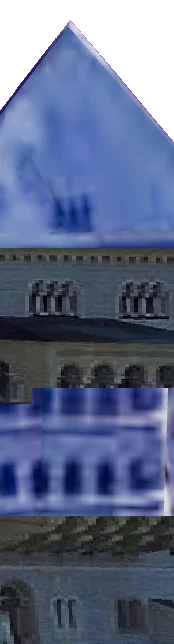
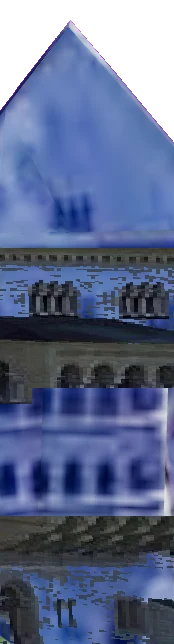
castle Neuschwanstein: đường đi + cầu thang OSM, chiếu ảnh chỉ lên chủ thể, ảnh so gần hơn
- scripts/tai-duong.mjs + public/duong.js (dùng chung): 93 đường OSM trong 450 m (đường ô tô, lối đi bộ, đường mòn, 13 cầu thang) → mặt đường bám đất thật + va chạm, cầu thang thành 357 bậc đá có va chạm hộp; bỏ đường là cầu / hầm
- chieuanh.js: mỗi ảnh chỉ chiếu trong 60 m sau mặt gần nhất ảnh thấy (chủ thể) — tia xuyên qua Palas rơi xuống cổng Torbau phía sau tô ảnh thung lũng / đường; bỏ điểm ảnh trời / cây
- dan-mat.py: ghép ảnh chụp vào ảnh dán không chép điểm trời / cây
- tai-anh-doi-chieu.mjs: THÊM VÀO danh sách ảnh (trước ghi đè, xoá camera đã khớp), ảnh 2400 px; thêm 7 ảnh Commons chụp gần (chưa khớp camera: toạ độ chụp trên Commons sai — sẽ dùng Mapillary)
- khop-camera.mjs: dò thô cho ảnh chưa có camera (hướng × ngẩng × ống kính, biên rộng)
- Thử: cửa sổ trèo vào, cầu thang tầng 3, điện thoại đạt

diff --git a/apps/castle/public/chieuanh.js b/apps/castle/public/chieuanh.js
@@ -4,7 +4,7 @@
 //   2. mỗi lưới nhận ảnh có một BẢN PHỦ dùng ShaderMaterial: điểm chiếu vào khung ảnh, không bị che (so độ sâu), mặt quay về phía camera → lấy màu ảnh, còn lại bỏ.
 // taoChieuAnh({ THREE, renderer, anh: { url, w, h }, cam: { pos: Vector3, quat: Quaternion, fov }, che: [Object3D], nhan: [Mesh] }) → Promise<[Mesh phủ]>
 // tra-repo-ok: kỹ thuật chiếu ảnh chuẩn (three.js không có sẵn bản có che khuất cho lưới tuỳ ý); mã nhỏ, riêng cảnh.
-export async function taoChieuAnh({ THREE, renderer, anh, cam, che, nhan, kichThuocSau = 2048 }) {
+export async function taoChieuAnh({ THREE, renderer, anh, cam, che, nhan, kichThuocSau = 2048, thu = 0, chuThe = 60 }) { // chuThe: chỉ chiếu tới mặt cách mặt gần nhất ≤ chuThe m // thu: thứ tự lớp (ảnh sau đè ảnh trước)
   const tx = await new THREE.TextureLoader().loadAsync(anh.url); tx.colorSpace = THREE.SRGBColorSpace;
   const pc = new THREE.PerspectiveCamera(cam.fov, anh.w / anh.h, 1, 3000); pc.position.copy(cam.pos); pc.quaternion.copy(cam.quat); pc.updateMatrixWorld(true); pc.updateProjectionMatrix();
   // độ sâu từ camera chụp (chỉ các lưới che)
@@ -13,23 +13,33 @@ export async function taoChieuAnh({ THREE, renderer, anh, cam, che, nhan, kichTh
   const truoc = renderer.getRenderTarget(); renderer.setRenderTarget(sau); renderer.clear(); renderer.render(canh, pc); renderer.setRenderTarget(truoc);
   for (const [o, p] of cu) p ? p.add(o) : canh.remove(o);
   const vp = new THREE.Matrix4().multiplyMatrices(pc.projectionMatrix, pc.matrixWorldInverse);
+  // CHỦ THỂ của ảnh: khoảng cách tới mặt gần nhất ảnh thấy (đỉnh lưới che trong khung ảnh) → chỉ chiếu trong ±sau m quanh đó;
+  // xa hơn là cảnh nền trong ảnh (thung lũng, nhà khác) — tia chiếu xuyên qua chủ thể rơi xuống toà phía sau sẽ tô sai (anh 16/11/2026: cổng Torbau mang ảnh cây + đường)
+  let gan = 1e9; const v4 = new THREE.Vector4();
+  for (const o of che) { o.updateMatrixWorld(true); const p = o.geometry?.attributes?.position; if (!p) continue; for (let i = 0; i < p.count; i += 7) {
+    v4.set(p.getX(i), p.getY(i), p.getZ(i), 1).applyMatrix4(o.matrixWorld); const w = v4.clone().applyMatrix4(vp); if (w.w <= 0 || Math.abs(w.x / w.w) > 1 || Math.abs(w.y / w.w) > 1) continue;
+    gan = Math.min(gan, Math.hypot(v4.x - pc.position.x, v4.y - pc.position.y, v4.z - pc.position.z)); } }
   const vl = new THREE.ShaderMaterial({
-    uniforms: { kiem: { value: 0 }, anh: { value: tx }, sau: { value: sau.depthTexture }, vp: { value: vp }, viTri: { value: pc.position }, gan: { value: pc.near }, xa: { value: pc.far } },
+    uniforms: { kiem: { value: 0 }, xaToiDa: { value: gan + chuThe }, anh: { value: tx }, sau: { value: sau.depthTexture }, vp: { value: vp }, viTri: { value: pc.position }, gan: { value: pc.near }, xa: { value: pc.far } },
     vertexShader: `varying vec4 vChieu; varying vec3 vPhap; varying vec3 vTg; uniform mat4 vp;
       void main() { vec4 w = modelMatrix * vec4(position, 1.0); vTg = w.xyz; vChieu = vp * w; vPhap = normalize(mat3(modelMatrix) * normal); gl_Position = projectionMatrix * viewMatrix * w; }`,
     fragmentShader: `#include <packing>
-      varying vec4 vChieu; varying vec3 vPhap; varying vec3 vTg; uniform int kiem; uniform sampler2D anh; uniform sampler2D sau; uniform vec3 viTri; uniform float gan; uniform float xa;
+      varying vec4 vChieu; varying vec3 vPhap; varying vec3 vTg; uniform int kiem; uniform float xaToiDa; uniform sampler2D anh; uniform sampler2D sau; uniform vec3 viTri; uniform float gan; uniform float xa;
       void main() {
         vec3 n = vChieu.xyz / vChieu.w; vec2 uv = n.xy * 0.5 + 0.5; if (vChieu.w <= 0.0 || uv.x < 0.0 || uv.x > 1.0 || uv.y < 0.0 || uv.y > 1.0) discard; if (kiem == 1) { gl_FragColor = vec4(1.0, 0.0, 0.0, 1.0); return; }
-        vec3 toi = normalize(viTri - vTg); float hg = dot(normalize(gl_FrontFacing ? vPhap : -vPhap), toi); if (hg < 0.4) discard; // chỉ mặt QUAY VỀ chỗ chụp, lệch ≤ ~66°: mặt xiên / quay lưng thì ảnh bị kéo thành sọc (anh 16/11/2026), bỏ
+        if (distance(viTri, vTg) > xaToiDa) discard; vec3 toi = normalize(viTri - vTg); float hg = dot(normalize(gl_FrontFacing ? vPhap : -vPhap), toi); if (hg < 0.4) discard; // chỉ mặt QUAY VỀ chỗ chụp, lệch ≤ ~66°: mặt xiên / quay lưng thì ảnh bị kéo thành sọc (anh 16/11/2026), bỏ
         if (kiem == 2) { gl_FragColor = vec4(0.0, 1.0, 0.0, 1.0); return; }
         float d = texture2D(sau, uv).x, zSau = perspectiveDepthToViewZ(d, gan, xa), zMinh = perspectiveDepthToViewZ(n.z * 0.5 + 0.5, gan, xa);
         if (zMinh < zSau - 0.6) discard; // bị vật khác che (sâu hơn 0,6 m so với mặt gần nhất camera chụp thấy)
-        gl_FragColor = texture2D(anh, uv);
+        vec4 c = texture2D(anh, uv);
+        // điểm ảnh là TRỜI (xanh dương / mây sáng nhạt) hoặc CÂY (xanh lá trội): trong ảnh thật chỗ đó không phải tường / mái (bị rừng che, hoặc khối mô hình lấn ra ngoài viền thật) → không chiếu
+        if (c.b > c.r + 0.08 && c.b > 0.35) discard;
+        if (c.g > c.r + 0.04 && c.g > c.b + 0.02) discard;
+        gl_FragColor = c;
         #include <colorspace_fragment>
       }`,
-    polygonOffset: true, polygonOffsetFactor: -2, polygonOffsetUnits: -2, side: THREE.DoubleSide,
+    polygonOffset: true, polygonOffsetFactor: -2 - thu, polygonOffsetUnits: -2 - thu, side: THREE.DoubleSide,
   });
   taoChieuAnh.vl = vl; // gỡ lỗi: vl.uniforms.kiem = 1 (đỏ = trong khung), 2 (xanh = qua lọc hướng)
-  return nhan.map((m) => { const p = new THREE.Mesh(m.geometry, vl); p.matrixAutoUpdate = false; m.updateMatrixWorld(true); p.matrix.copy(m.matrixWorld); p.matrixWorld.copy(m.matrixWorld); p.renderOrder = 2; return p; });
+  return nhan.map((m) => { const p = new THREE.Mesh(m.geometry, vl); p.matrixAutoUpdate = false; m.updateMatrixWorld(true); p.matrix.copy(m.matrixWorld); p.matrixWorld.copy(m.matrixWorld); p.renderOrder = 2 + thu; return p; });
 }

diff --git a/apps/castle/public/ns.js b/apps/castle/public/ns.js
@@ -16,6 +16,7 @@ import { MeshoptDecoder } from 'three/addons/libs/meshopt_decoder.module.js';
 import { ganGopY, chupCanvas } from './gopy.js';
 import { taoCamUng, CHAM } from './camung.js';
 import { taoChieuAnh } from './chieuanh.js';
+import { datDuong } from './duong.js';
 import { datMatTien, datMatPalas, datThapGoc, bocCuc, O_MO, quyDoiMat, tiLeDung, datChop, oCum } from './mattien.js';
 import { taoNhieuNguoi } from './nhieunguoi.js';
 
@@ -33,6 +34,7 @@ const NEN = await fetch(`./du-lieu/${ten}-nen.json`, { cache: 'no-cache' }).then
 const CHOP = await fetch(`./du-lieu/${ten}-chop.json`, { cache: 'no-cache' }).then((r) => (r.ok ? r.json() : null)).catch(() => null); // chóp / tháp nhỏ OSM không có (scripts/them-chop.mjs)
 const CUA_SO = await fetch(`./du-lieu/${ten}-cua-so.json`, { cache: 'no-cache' }).then((r) => (r.ok ? r.json() : {})).catch(() => ({})); // cửa sổ đo từ ảnh từng mặt (scripts/nan-google.mjs + do-cua-so.py)
 const MAT_ANH = await fetch(`./du-lieu/${ten}-mat-anh.json`, { cache: 'no-cache' }).then((r) => (r.ok ? r.json() : {})).catch(() => ({})); // ảnh dán mặt tường (scripts/nan-google.mjs PX=16 + dan-mat.py)
+const DUONG = await fetch(`./du-lieu/${ten}-duong.json`, { cache: 'no-cache' }).then((r) => (r.ok ? r.json() : null)).catch(() => null); // đường + cầu thang OSM (scripts/tai-duong.mjs)
 const NT = await fetch(`./du-lieu/${ten}-noi-that.json`, { cache: 'no-cache' }).then((r) => (r.ok ? r.json() : null)).catch(() => null); // nội thất (có thì dựng)
 for (const k of D.khoi) if (SUA[k.id]) { k.tagsGoc = { ...k.tags }; for (const [a, b] of Object.entries(SUA[k.id])) if (a !== 'ly_do') k.tags[a] = String(b); }
 
@@ -441,6 +443,18 @@ if (NEN_LUOI) {
   }
 }
 
+// ---- ĐƯỜNG ĐI + CẦU THANG OSM (duong.js): mặt đường bám đất thật, bậc đá có va chạm
+if (DUONG?.duong?.length) {
+  const tx = (t, lap) => { for (const x of [t.map, t.bump]) if (x) { x.wrapS = x.wrapT = THREE.RepeatWrapping; } return t; };
+  const nhua = tx(T.daXay(T.rngTu(61), 34, 50)), dat = tx(T.cuoi(T.rngTu(62))), bac = tx(T.daXay(T.rngTu(63), 30, 60));
+  const { ra, dem } = datDuong({ THREE, mergeGeometries, RAPIER, world, tinh, ds: DUONG.duong, cao: datThat,
+    vl: { nhua: new THREE.MeshStandardMaterial({ map: nhua.map, bumpMap: nhua.bump, bumpScale: 0.8, roughness: 0.92, color: '#b9b3a8' }),
+      dat: new THREE.MeshStandardMaterial({ map: dat.map || null, roughness: 0.95, color: '#9c8c72' }),
+      bac: new THREE.MeshStandardMaterial({ map: bac.map, bumpMap: bac.bump, bumpScale: 1, roughness: 0.9, color: '#d6d0c4' }) } });
+  for (const m of ra) { scene.add(m); LOP_OSM.push(m); }
+  console.info('[ns] đường đi:', JSON.stringify({ ...dem, m: Math.round(dem.m) }));
+}
+
 // ---- NỘI THẤT Palas (noithat.js): sàn, phòng theo bản vẽ, cầu thang xoắn, đồ đạc, đèn chùm
 let noiThat = null;
 if (NOI) {
@@ -608,15 +622,18 @@ const raMet = (la, ln) => [(ln - D.tam[1]) * M_LNG, -(la - D.tam[0]) * M_LAT];
 // ẢNH CHỤP CHIẾU LÊN MÁI + THÁP (chieuanh.js): ảnh so khớp camera tốt nhất (ghi chú khớp tự động, lệch viền ≤ 10 px) → cửa mái, ống khói, chóp, hoa văn trên mái
 // hiện đúng chỗ như ảnh. Chỉ tô chỗ ảnh nhìn thấy; tải nền sau khi cảnh dựng xong
 (async () => {
-  const tot = ANH.map((a, i) => ({ a, i, lech: +(/lệch viền ([\d.]+) px/.exec(a.camera?.ghi_chu || '')?.[1] ?? 999) })).filter((x) => x.a.camera && x.lech <= 10).sort((p, q) => p.lech - q.lech)[0];
-  if (!tot) return;
-  const nha = LOP_OSM.filter((m) => m.isMesh && m.userData.nha); if (!nha.length) return;
-  const [x, z] = raMet(tot.a.lat, tot.a.lng), c = tot.a.camera, quat = new THREE.Quaternion().setFromEuler(new THREE.Euler(c.pitch, c.yaw, 0, 'YXZ'));
-  try {
-    const phu = await taoChieuAnh({ THREE, renderer, anh: { url: `./du-lieu/${tot.a.tep}`, w: tot.a.rong, h: tot.a.cao }, cam: { pos: new THREE.Vector3(x, c.y, z), quat, fov: c.fov }, che: nha, nhan: nha });
-    for (const p of phu) { p.visible = !LOP_OSM.dangAn; scene.add(p); LOP_OSM.push(p); }
-    console.info('[ns] chiếu ảnh', tot.a.tieuDe, 'lên', phu.length, 'lưới nhà');
-  } catch (e) { console.warn('[ns] chiếu ảnh lỗi', e); }
+  // mọi ảnh khớp camera tốt (lệch viền ≤ 10 px) đều chiếu; ảnh chụp GẦN hơn vẽ sau (đè) ở chỗ cùng thấy — nét hơn
+  const ds = ANH.map((a, i) => ({ a, i, lech: +(/lệch viền ([\d.]+) px/.exec(a.camera?.ghi_chu || '')?.[1] ?? 999) })).filter((x) => x.a.camera && x.lech <= 10)
+    .map((x) => { const [px, pz] = raMet(x.a.lat, x.a.lng); return { ...x, px, pz, xa: Math.hypot(px + 30, pz - 15) }; }).sort((p, q) => q.xa - p.xa);
+  const nha = LOP_OSM.filter((m) => m.isMesh && m.userData.nha); if (!ds.length || !nha.length) return;
+  for (const [k, x] of ds.entries()) {
+    const c = x.a.camera, quat = new THREE.Quaternion().setFromEuler(new THREE.Euler(c.pitch, c.yaw, 0, 'YXZ'));
+    try {
+      const phu = await taoChieuAnh({ THREE, renderer, anh: { url: `./du-lieu/${x.a.tep}`, w: x.a.rong, h: x.a.cao }, cam: { pos: new THREE.Vector3(x.px, c.y, x.pz), quat, fov: c.fov }, che: nha, nhan: nha, thu: k });
+      for (const p of phu) { p.visible = !LOP_OSM.dangAn; scene.add(p); LOP_OSM.push(p); }
+      console.info('[ns] chiếu ảnh', x.a.tieuDe, `(cách ${x.xa.toFixed(0)} m, lệch ${x.lech} px) lên`, phu.length, 'lưới nhà');
+    } catch (e) { console.warn('[ns] chiếu ảnh lỗi', x.a.tieuDe, e); }
+  }
 })();
 let dangSo = null, cam = null;
 const hop = $('so-khung'), img = $('so-anh');

diff --git a/apps/castle/public/duong.js b/apps/castle/public/duong.js
@@ -1,0 +1,51 @@
+// ĐƯỜNG ĐI + CẦU THANG từ OSM (du-lieu/<lâu>-duong.json, scripts/tai-duong.mjs) — dùng chung mọi lâu đài:
+//   đường (đường ô tô, lối đi bộ, đường mòn): dải rộng theo loại, bám mặt đất thật cao(x, z), nhô 6 cm; mép có bó vỉa với đường lát;
+//   cầu thang (highway=steps): bậc đá 0,16–0,2 m chia đều giữa độ cao hai đầu, mỗi bậc một khối có va chạm hộp, hai bên thành đá thấp.
+// Bỏ đường là cầu (bridge, đã dựng riêng) và hầm. Va chạm đường: trimesh dải (người đi trên mặt đường thay vì lưới đất thô).
+// datDuong({ THREE, mergeGeometries, RAPIER, world, tinh, ds, cao, vl: { nhua, da, bac } }) → { ra: [Mesh], dem }
+// tra-repo-ok: dựng dải theo polyline + bậc thang (mã nhỏ riêng cảnh).
+export function datDuong({ THREE, mergeGeometries, RAPIER, world, tinh, ds, cao, vl }) {
+  const LAT = new Set(['footway', 'pedestrian', 'steps', 'service', 'residential', 'unclassified']); // đường lát / nhựa; còn lại (track, path) là đất
+  const nhom = { nhua: [], dat: [], bac: [] }, dem = { duong: 0, bac: 0, m: 0 };
+  const dai = (v, w, y = (x, z) => cao(x, z) + 0.06) => { // dải theo polyline, chia đoạn ≤ 2 m để bám đất
+    const p = []; const pts = [];
+    for (let i = 0; i + 1 < v.length; i++) { const [x1, z1] = v[i], [x2, z2] = v[i + 1], L = Math.hypot(x2 - x1, z2 - z1), n = Math.max(1, Math.ceil(L / 2)); for (let k = 0; k < n; k++) pts.push([x1 + (x2 - x1) * k / n, z1 + (z2 - z1) * k / n]); }
+    pts.push(v[v.length - 1]);
+    const ben = pts.map((q, i) => { const a = pts[Math.max(0, i - 1)], b = pts[Math.min(pts.length - 1, i + 1)], dx = b[0] - a[0], dz = b[1] - a[1], l = Math.hypot(dx, dz) || 1; return [-dz / l * w / 2, dx / l * w / 2]; });
+    let s = 0, uv = [];
+    for (let i = 0; i + 1 < pts.length; i++) {
+      const [x1, z1] = pts[i], [x2, z2] = pts[i + 1], [a1, b1] = ben[i], [a2, b2] = ben[i + 1], d = Math.hypot(x2 - x1, z2 - z1);
+      const A = [x1 + a1, y(x1 + a1, z1 + b1), z1 + b1], B = [x1 - a1, y(x1 - a1, z1 - b1), z1 - b1], C = [x2 + a2, y(x2 + a2, z2 + b2), z2 + b2], E = [x2 - a2, y(x2 - a2, z2 - b2), z2 - b2];
+      p.push(...A, ...B, ...C, ...B, ...E, ...C); uv.push(0, s / 3, w / 3, s / 3, 0, (s + d) / 3, w / 3, s / 3, w / 3, (s + d) / 3, 0, (s + d) / 3); s += d;
+    }
+    dem.m += s;
+    const g = new THREE.BufferGeometry(); g.setAttribute('position', new THREE.Float32BufferAttribute(p, 3)); g.setAttribute('uv', new THREE.Float32BufferAttribute(uv, 2)); g.computeVertexNormals(); return g;
+  };
+  const va = [];
+  for (const d of ds) {
+    if (d.cau || d.ham || d.v.length < 2) continue;
+    if (d.loai === 'steps') { // CẦU THANG: bậc đều giữa độ cao hai đầu (theo hướng đường OSM)
+      let L = 0; for (let i = 0; i + 1 < d.v.length; i++) L += Math.hypot(d.v[i + 1][0] - d.v[i][0], d.v[i + 1][1] - d.v[i][1]);
+      const [xa, za] = d.v[0], [xb, zb] = d.v[d.v.length - 1], ya = cao(xa, za), yb = cao(xb, zb), H = yb - ya, n = d.bac || Math.max(2, Math.round(Math.abs(H) / 0.17)), w = Math.max(1.2, d.rong);
+      if (L < 0.8) continue;
+      const diem = (t) => { let r = t * L; for (let i = 0; i + 1 < d.v.length; i++) { const [x1, z1] = d.v[i], [x2, z2] = d.v[i + 1], l = Math.hypot(x2 - x1, z2 - z1); if (r <= l || i + 2 === d.v.length) { const k = l ? Math.min(1, r / l) : 0; return [x1 + (x2 - x1) * k, z1 + (z2 - z1) * k, Math.atan2(x2 - x1, z2 - z1)]; } r -= l; } };
+      for (let k = 0; k < n; k++) {
+        const [x, z, goc] = diem((k + 0.5) / n), yTren = ya + H * (k + (H > 0 ? 1 : 0)) / n, sau = L / n + 0.02, day = Math.min(yTren, cao(x, z)) - 0.4, h = Math.max(0.1, yTren - day);
+        const g = new THREE.BoxGeometry(w, h, sau); g.rotateY(goc); g.translate(x, day + h / 2, z); nhom.bac.push(g.toNonIndexed());
+        va.push([w / 2, h / 2, sau / 2, x, day + h / 2, z, goc]); dem.bac++;
+      }
+      dem.duong++; continue;
+    }
+    const g = dai(d.v, d.rong); (LAT.has(d.loai) ? nhom.nhua : nhom.dat).push(g); dem.duong++;
+    const p = g.attributes.position; world.createCollider(RAPIER.ColliderDesc.trimesh(new Float32Array(p.array), Uint32Array.from({ length: p.count }, (_, i) => i)), tinh);
+  }
+  const q = new THREE.Quaternion(), Y = new THREE.Vector3(0, 1, 0);
+  for (const [hx, hy, hz, x, y, z, a] of va) { q.setFromAxisAngle(Y, a); world.createCollider(RAPIER.ColliderDesc.cuboid(hx, hy, hz).setTranslation(x, y, z).setRotation(q), tinh); }
+  const ra = [];
+  for (const [k, m] of [['nhua', vl.nhua], ['dat', vl.dat], ['bac', vl.bac]]) {
+    if (!nhom[k].length) continue;
+    const gs = nhom[k].map((g) => { for (const a of Object.keys(g.attributes)) if (!['position', 'normal', 'uv'].includes(a)) g.deleteAttribute(a); if (!g.attributes.uv) { const n = g.attributes.position.count; g.setAttribute('uv', new THREE.Float32BufferAttribute(new Float32Array(n * 2), 2)); } return g; });
+    const mesh = new THREE.Mesh(mergeGeometries(gs), m); mesh.receiveShadow = true; mesh.castShadow = k === 'bac'; ra.push(mesh);
+  }
+  return { ra, dem };
+}

diff --git a/apps/castle/public/neuschwanstein.html b/apps/castle/public/neuschwanstein.html
@@ -84,7 +84,7 @@
 <script>
 // cùng cách nạp theo dấu phiên bản như index.html (Cloudflare zone on.tc giữ .js 30 ngày): hỏi ETag rồi nạp ./x.js?v=<ETag>
 (async () => {
-  const TEP = ['ns.js', 'tex.js', 'nguoi3d.js', 'dibo.js', 'bando.js', 'noithat.js', 'gopy.js', 'camung.js', 'mattien.js', 'nhieunguoi.js', 'chieuanh.js'];
+  const TEP = ['ns.js', 'tex.js', 'nguoi3d.js', 'dibo.js', 'bando.js', 'noithat.js', 'gopy.js', 'camung.js', 'mattien.js', 'nhieunguoi.js', 'chieuanh.js', 'duong.js'];
   const lay = (f) => fetch(`./${f}?ban=${Date.now()}`, { method: 'HEAD', cache: 'no-store', credentials: 'same-origin' })
     .then((r) => (r.ok && (r.headers.get('etag') || r.headers.get('last-modified')) || '').replace(/[^\w-]/g, '')).catch(() => '');
   const dau = await Promise.all(TEP.map(lay));

diff --git a/apps/castle/scripts/dan-mat.py b/apps/castle/scripts/dan-mat.py
@@ -34,7 +34,8 @@ for m in json.loads((thu / 'mat-g.json').read_text()):
             if not 0 <= gy < H: continue
             for x in range(min(W, pc.size[0])):
                 r, g, b, a = qx[x, py]
-                if a == 255 and not (r == g == b == 128): px[x, gy] = (r, g, b, 255)
+                troi = b > r + 20 and b > 90; cay = g > r + 10 and g > b + 5  # ảnh chụp: trời / cây không phải tường (bị rừng che, hoặc ra ngoài viền thật) → không chép
+                if a == 255 and not (r == g == b == 128) and not troi and not cay: px[x, gy] = (r, g, b, 255)
     # ẢNH HỎNG: mặt ảnh 3D không có ảnh thật (màu bị kéo dãn thành sọc ngang) → độ chênh theo chiều dọc gấp > 1,5 lần chiều ngang → không dán
     if True:  # kể cả sau khi ghép ảnh chụp (mặt nhìn quá xiên từ chỗ chụp cũng kéo thành sọc)
         L_ = im.convert('L'); q = L_.load(); dx = sum(abs(q[x, y] - q[x + 1, y]) for y in range(0, H, 2) for x in range(W - 1)) / max(1, (W - 1) * (H // 2)); dy = sum(abs(q[x, y] - q[x, y + 1]) for y in range(H - 1) for x in range(0, W, 2)) / max(1, (H - 1) * (W // 2))
